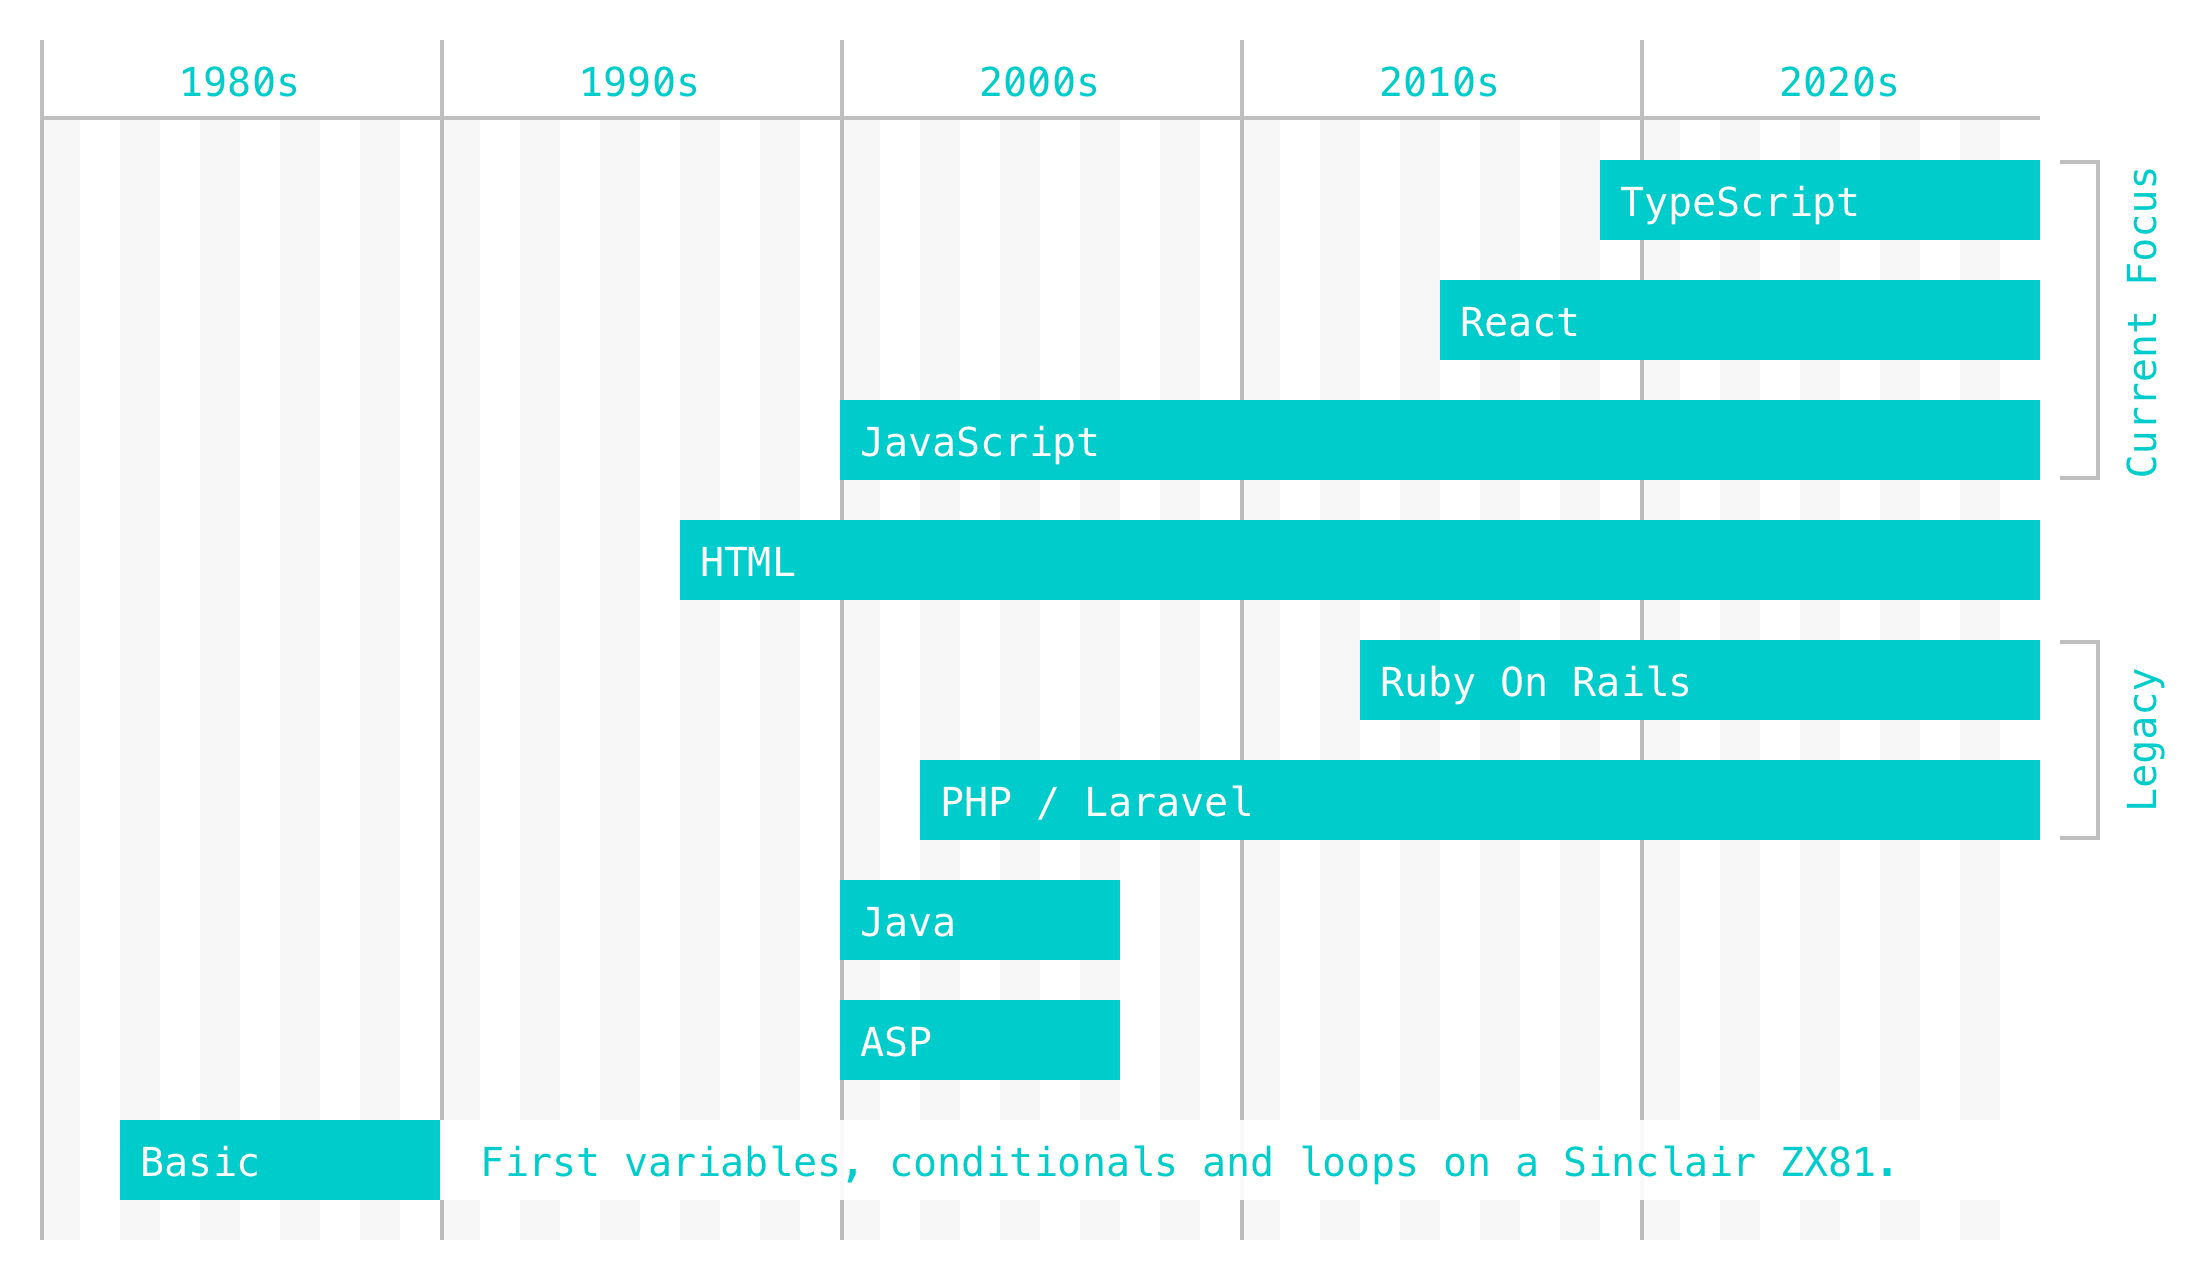
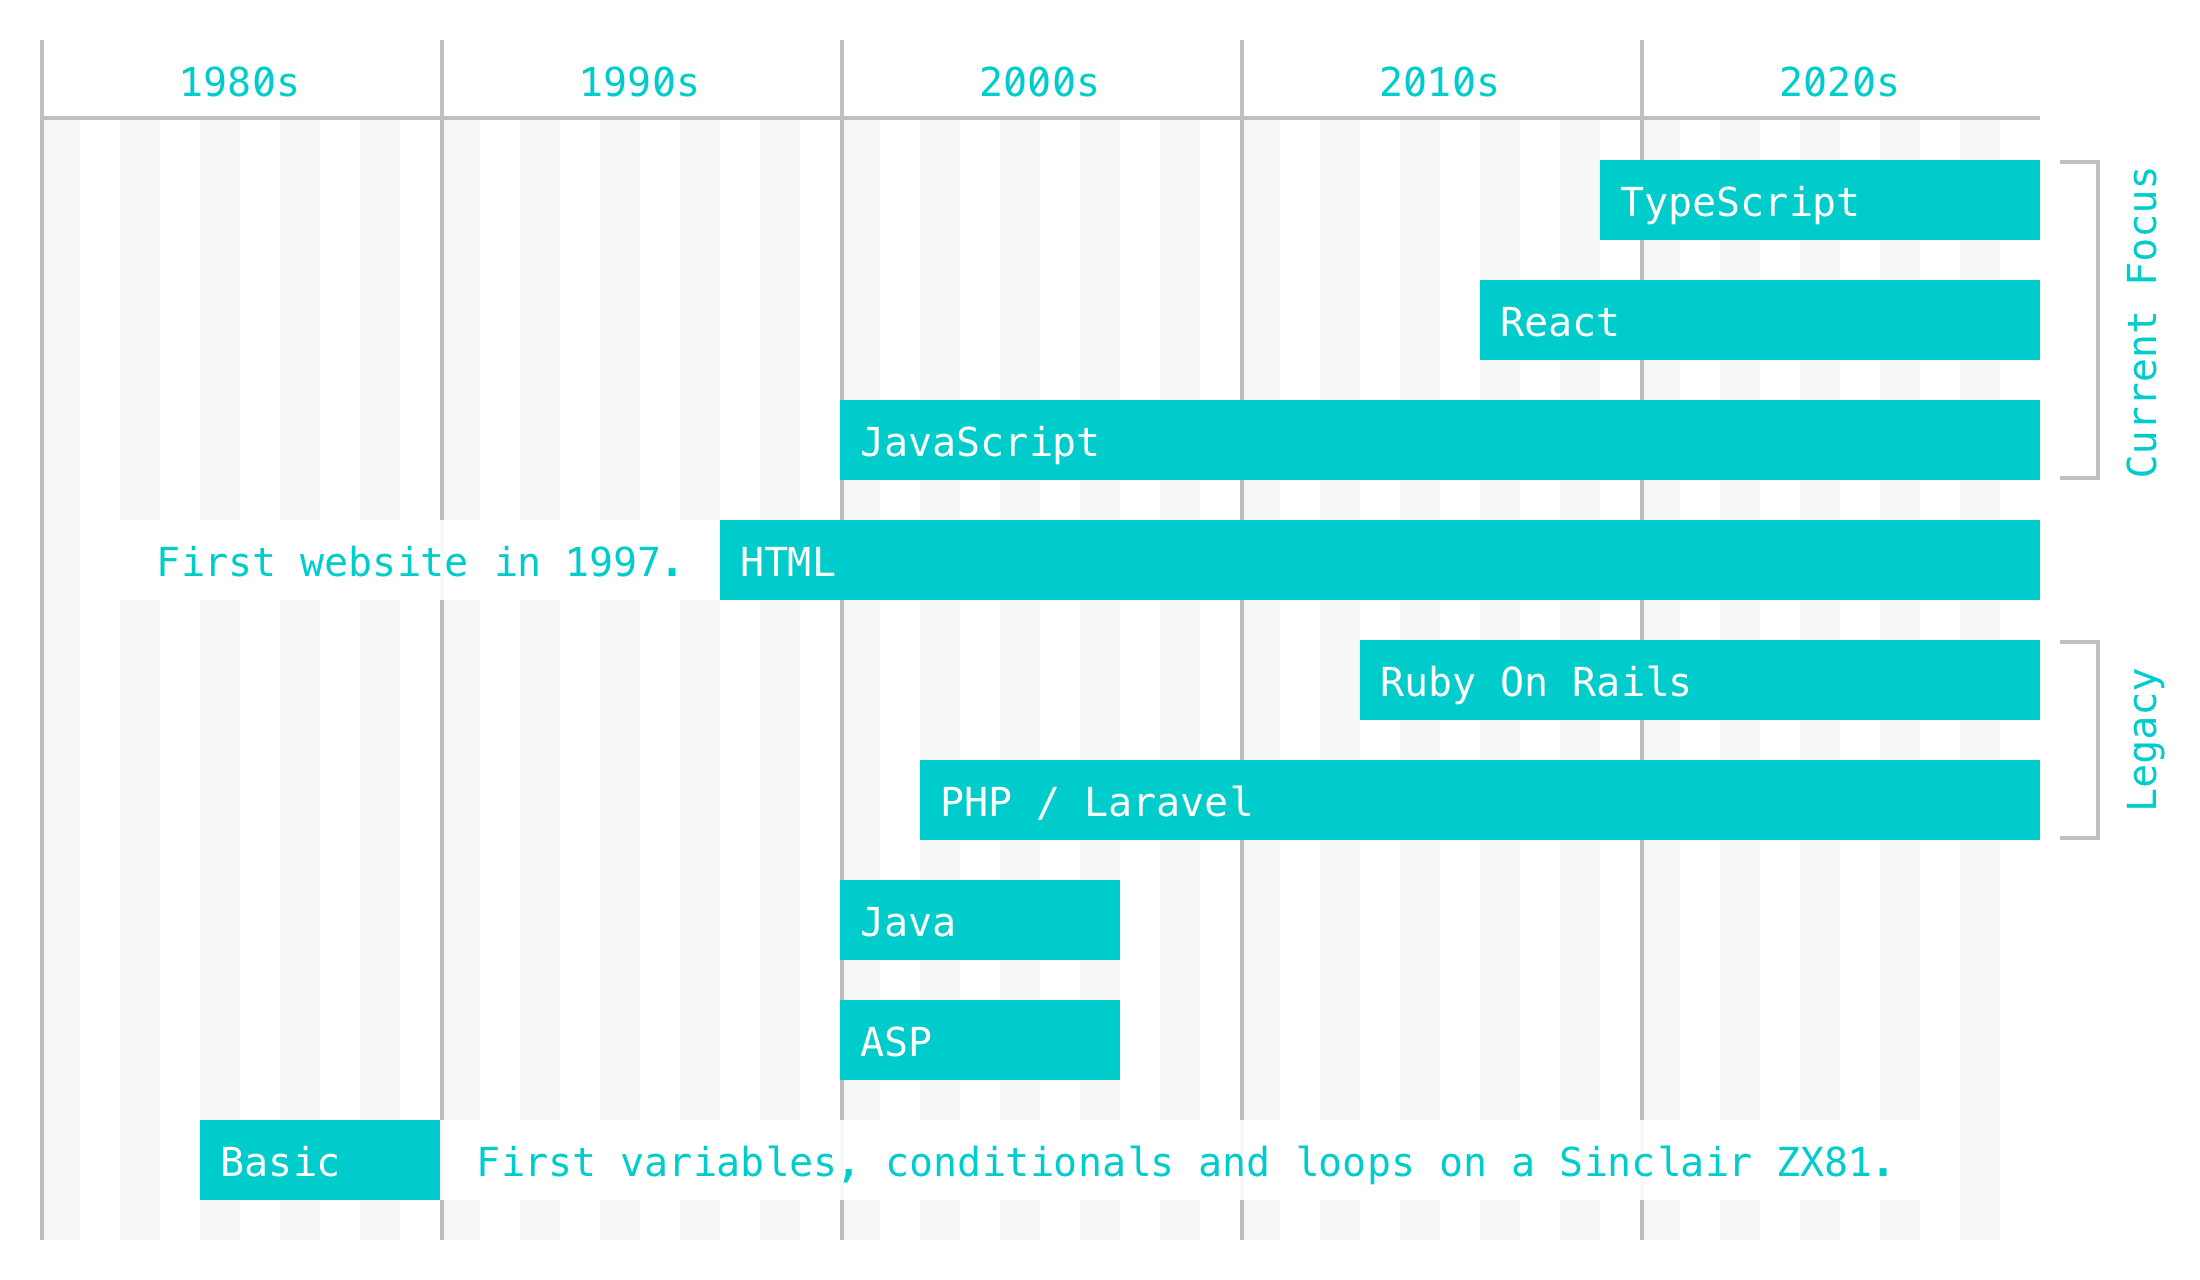
Fix dates

diff --git a/README.md b/README.md
@@ -1,4 +1,4 @@
-### Hi there, I'm JP. I started programming in 1983. 👨 🇧🇷
+### Hi there, I'm JP. I started programming in the mid-1980s. 👨 🇧🇷
 
 ![Timeline](images/timeline.png)
 
